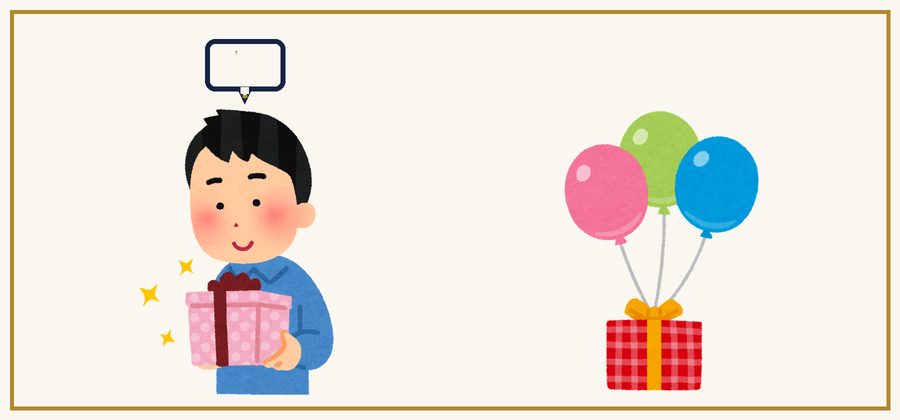
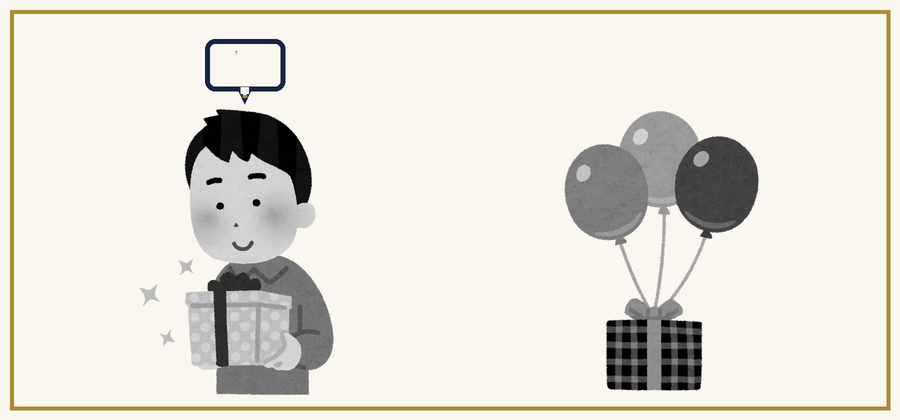
Ubah seluruh ilustrasi Mendengarkan Paket B jadi grayscale ala JLPT asli
Versi berwarna sebelumnya masih terasa kurang mirip buku soal JLPT
resmi yang aslinya hitam-putih (tinta + shading abu-abu, tanpa
warna). Semua 6 gambar sekarang diseragamkan ke palet grayscale:

- Aset irasutoya (もんだい2 orang/payung, もんだい3 adegan) didesaturate
  + autocontrast supaya tinta hitam & gradasi abu-abunya tegas, mirip
  ilustrasi manga di buku soal asli.
- Karakter buatan sendiri (もんだい1) diwarnai ulang dari palet warna-
  warni jadi palet abu-abu (kulit/rambut/baju/celana), garis luar
  tetap navy senada border kotak.
- Payung "panjang" ditukar ke sumber warna kuning (bukan biru) karena
  biru gelap jadi nyaris sama dengan payung hitam setelah di-grayscale
  - sekarang keempat pilihan payung mondai2 kembali mudah dibedakan.

Hasil akhir: satu set ilustrasi yang konsisten gaya di semua 6 file,
mendekati nuansa visual buku soal JLPT resmi. Deskripsi paket
diperbarui, cache service worker naik ke v184.

diff --git a/js/pages/latihan.js b/js/pages/latihan.js
@@ -136,7 +136,7 @@ const mockTestPackages={
   },
   "jlpt-n5-tp2":{
     label:"JLPT N5 · Paket B (Latihan)",
-    source:"Paket latihan orisinal (bukan dari dokumen resmi JLPT) - struktur & jumlah soal per もんだい dibuat identik dengan paket JLPT N5 · Contoh Resmi, kosakata & konteksnya semua berbeda. Audio dibuat dengan suara sintesis (text-to-speech) karena tidak ada rekaman asli untuk kosakata baru ini; gambar soal mendengarkan bergambar memakai ilustrasi gratis dari irasutoya.com (bukan aset resmi JLPT).",
+    source:"Paket latihan orisinal (bukan dari dokumen resmi JLPT) - struktur & jumlah soal per もんだい dibuat identik dengan paket JLPT N5 · Contoh Resmi, kosakata & konteksnya semua berbeda. Audio dibuat dengan suara sintesis (text-to-speech) karena tidak ada rekaman asli untuk kosakata baru ini; gambar soal mendengarkan bergambar memakai ilustrasi gratis dari irasutoya.com yang diolah jadi hitam-putih (grayscale) supaya senada dengan gaya buku soal JLPT resmi (bukan aset resmi JLPT).",
     questions:[
       {category:"Kosakata JLPT",instruction:"＿＿＿の ことばは ひらがなで どう かきますか。1・2・3・4から いちばん いい ものを ひとつ えらんでください。",html:"きょうは とても <u>忙しい</u>です。",options:["いぞがしい","いそかしい","いそがしい","いぞかしい"],answer:2,explanation:"忙しい dibaca いそがしい, berarti sibuk.",material:"JLPT N5 - Paket B (Latihan) · kanji_reading"},
       {category:"Kosakata JLPT",instruction:"＿＿＿の ことばは ひらがなで どう かきますか。1・2・3・4から いちばん いい ものを ひとつ えらんでください。",html:"<u>財布</u>を わすれました。",options:["ざいぶ","さいふ","ざいふ","さいぶ"],answer:1,explanation:"財布 dibaca さいふ, berarti dompet.",material:"JLPT N5 - Paket B (Latihan) · kanji_reading"},

diff --git a/sw.js b/sw.js
@@ -1,7 +1,7 @@
 // Satu-satunya angka yang perlu dinaikkan setiap kali ada file di ASSETS
 // yang isinya berubah (JS/CSS/data/gambar). Tanpa ini, service worker
 // akan terus menyajikan versi lama dari cache ke user yang sudah install.
-const CACHE_NAME = 'nihon-go-benkyo-v183';
+const CACHE_NAME = 'nihon-go-benkyo-v184';
 const ASSETS = [
   'index.html',
   'css/base.css', 'css/shell.css', 'css/auth.css',
